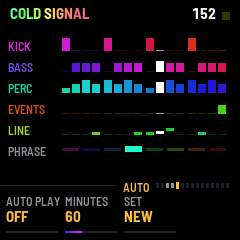
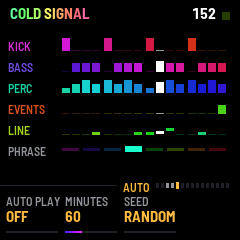
AUTO: the SET knob is SEED, NEW is RANDOM

Changed region(s): [[0.525, 0.8167, 0.7292, 0.9333]]

diff --git a/app/app.c b/app/app.c
@@ -20,7 +20,7 @@
  *   4 BUILD (SEQ again)      the builds: K1 Type (AUTO, or one held), K2 Ending (their last bar's: AUTO, or one held),
  *                            K3 Length (2, 4, 8 bars)
  *   5 AUTO (SEQ, a third)    AUTO PLAY (auto.h), a set played as a DJ would: K1 on or off, K2 its minutes (30, 60, 90,
- *                            endless), K3 its number (0: a new one each time)
+ *                            endless), K3 its seed (0: a random one each time)
  *   6 KICK (SEL)             K1..K4 Tune, Drive, Punch, Decay (its body: short and tight, or long and full)
  *   7 BASS (SEL again)       K1..K4 Bite, Decay (how fast the bite closes), Length, Drive (as LINE's)
  *   8 PERC (ENV)             K1..K4 Hats, Open (the open hat's length), Clap, Tone (all of it brighter, darker)
@@ -79,7 +79,7 @@ typedef struct {
     uint8_t theme;                       /* THEME (the screen's colours and their movement) */
     uint8_t flags;                       /* SET_MIDI */
     int16_t par[P_NPARAMS];
-    uint8_t auto_len, auto_set;          /* AUTO PLAY's: 30, 60, 90 minutes, without end; its set (0: a new one) */
+    uint8_t auto_len, auto_set;          /* AUTO PLAY's: 30, 60, 90 minutes, without end; its seed (0: a random one) */
 } settings_t;
 static settings_t set;
 #define SET_MIDI 2u                      /* MIDI in: notes throw events, start / stop / clock followed */
@@ -135,7 +135,7 @@ static void settings_defaults(void)
     set.theme = 0;                       /* NEON */
     for (p = 0; p < P_NPARAMS; p++)
         set.par[p] = ps_param(p)->def;
-    set.auto_len = 1;                    /* AUTO: 60 minutes, a new set */
+    set.auto_len = 1;                    /* AUTO: 60 minutes, a random seed */
     set.auto_set = 0;
 }
 
@@ -211,7 +211,7 @@ static int page_par(int p, int k)
         {P_TEMPO, P_ROOT, P_FILLS, P_SITOUT},
         {P_BREAKS, P_BREAK_LEN, P_GAP, P_MORPH},         /* BREAK: the breaks, and the kit changing on its own */
         {-1, -1, P_BUILD_LEN, -1},                       /* BUILD: K1 the builds' type, K2 their ending, K3 their bars */
-        {-1, -1, -1, -1},                                /* AUTO: K1 on, K2 the set's minutes, K3 its number */
+        {-1, -1, -1, -1},                                /* AUTO: K1 on, K2 the set's minutes, K3 its seed */
         {P_KICK_TUNE, P_KICK_DRIVE, P_KICK_PUNCH, P_KICK_DECAY},   /* (the levels and the sends: MIX's) */
         {P_BASS_BITE, P_BASS_DECAY, P_BASS_LEN, P_BASS_DRIVE},   /* (as LINE's) */
         {P_HATS, P_PERC_OPEN, P_CLAP, P_HAT_TONE},   /* (TONE: all of it, the clap's too) */
@@ -383,7 +383,7 @@ static const char *knob_name(int page, int k)
     if (page == PG_BUILD)
         return k == 0 ? "TYPE" : k == 1 ? "ENDING" : k == 2 ? "LENGTH" : "";
     if (page == PG_AUTO)
-        return k == 0 ? "AUTO PLAY" : k == 1 ? "MINUTES" : k == 2 ? "SET" : "";
+        return k == 0 ? "AUTO PLAY" : k == 1 ? "MINUTES" : k == 2 ? "SEED" : "";
     if (page == PG_MIX)
         return k == 0 ? "TRACK" : k == 1 ? "LEVEL" : k == 2 ? (TRACK_SEND[mix_track % NTRACK] < 0 ? "" : "SEND")
              : "MUTE";                   /* (no send: no SEND) */
@@ -457,7 +457,7 @@ static void knob_value(int page, int k, char *t, int32_t *pos, int32_t *span)   
         else if (n)
             int_text(n, t);
         else
-            str_put(t, 12, "NEW");
+            str_put(t, 12, "RANDOM");
         *pos = k == 0 ? au.on : k == 1 ? l : n;
         *span = k == 0 ? 1 : k == 1 ? AU_NLEN - 1 : 99;
         return;
@@ -550,7 +550,7 @@ static void knob_turn(int k, int32_t d)
         knob_value(page, k, t, &pos, &span);
         app_say(knob_name(page, k), t);
         return;
-    } else if (page == PG_AUTO) {        /* AUTO PLAY: on, off; its minutes and its set, while off */
+    } else if (page == PG_AUTO) {        /* AUTO PLAY: on, off; its minutes and its seed, while off */
         if (k == 3)
             return;
         if (k == 0) {

diff --git a/app/auto.h b/app/auto.h
@@ -3,7 +3,7 @@
 /* AUTO PLAY: a set, played as a DJ would: 30, 60 or 90 minutes, or without end. Included in app.c; on the UI's side, it
  * only turns what a hand could (psy.h), a bar at a time.
  *
- * A set is drawn from its number: a curve of how high it stands (one of several, none chosen by hand), and chapters
+ * A set is drawn from its seed: a curve of how high it stands (one of several, none chosen by hand), and chapters
  * of some 5 to 9 minutes along it: a world, a tempo reached by its end, a key, the macros, how dark. Within a chapter
  * the groove runs 48 to 96 bars, then a break, a build, the drop; the last drop of a chapter is the next one's first
  * bar: its world and its key come there, never elsewhere. The tempo glides, a tenth of a BPM a bar at most, and goes
@@ -14,7 +14,7 @@
  * set keeps those. Off: the music goes on from where it is, the knobs where the set left them. A set done: its last
  * break fades, the music rests, and everything is the hand's again.
  *
- * Its dice are its own (never the engine's): the same number draws the same set; what the generator plays within it is
+ * Its dice are its own (never the engine's): the same seed draws the same set; what the generator plays within it is
  * its own each time. */
 #define AU_HOLD 32                       /* bars a thing touched stays the hand's */
 #define AU_NCH 20

diff --git a/app/docs/MANUAL.md b/app/docs/MANUAL.md
@@ -244,19 +244,19 @@ The endings:
 
 ### 5.5 AUTO
 
-![The AUTO page: Auto play OFF, Minutes 60, Set NEW](img/screen-auto.png "AUTO")
+![The AUTO page: Auto play OFF, Minutes 60, Seed RANDOM](img/screen-auto.png "AUTO")
 
 SEQ, a third time. AUTO PLAY plays a whole set by itself, as a DJ would: it goes through the worlds, moves the tempo and
 the key, calls the breaks and the builds, and raises and lowers the music along a curve of its own.
 
 - AUTO PLAY: right for ON, left for OFF. OFF.
 - MINUTES: how long the set is: 30, 60, 90, or ENDLESS. 60.
-- SET: which set. Each number from 1 to 99 is a plan of its own: the worlds, the tempos, the keys, where it rises and
+- SEED: which set. Each number from 1 to 99 is a plan of its own: the worlds, the tempos, the keys, where it rises and
   falls. Started from rest, the same number and the same MINUTES plan the same set again; the sounds in it
-  still come out different each time. NEW takes another number each time, and shows it while the set plays. NEW.
+  still come out different each time. RANDOM takes another number each time, and shows it while the set plays. RANDOM.
 
 Turn it on while the music rests and the set waits at its beginning for PLAY. Turn it on while the music plays and the
-set goes on from there. MINUTES and SET can be turned only while it is off. On MAIN, BREAK and AUTO the rule shows how
+set goes on from there. MINUTES and SEED can be turned only while it is off. On MAIN, BREAK and AUTO the rule shows how
 many minutes have gone.
 
 A set is made of chapters of some minutes each. A new chapter comes in on a drop, with its world and its key. The tempo
